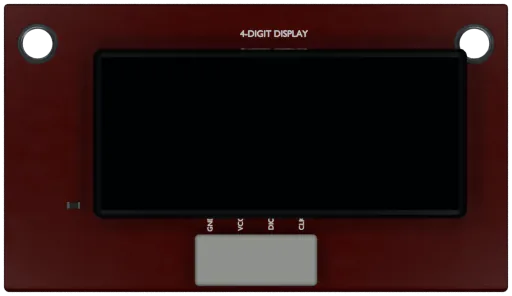
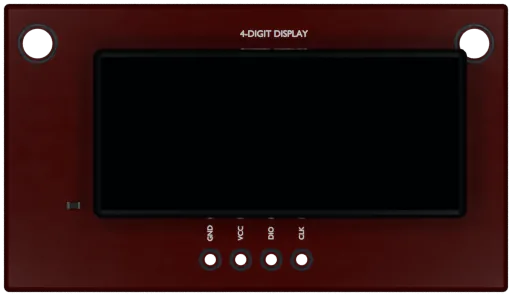
fix(assets): leave the TM1637 connection header unpopulated
The render showed a fitted Grove socket, against the rule that external
connection headers are plated holes by default. The socket is replaced by
four drilled holes (verified see-through), the pin labels move clear of the
display body, and the Build Diagram pads follow the new hole centres.

diff --git a/src/components/BuildDiagram/physicalDiagramLayout.ts b/src/components/BuildDiagram/physicalDiagramLayout.ts
@@ -347,7 +347,7 @@ export const MODULE_PAD_GEOMETRY: Record<string, readonly PadPoint[]> = {
     padRow([80, 114.3, 148.6, 182.9, 217.1, 251.4, 285.7, 320], 400, 346.2, 366),
   'ssd1306-oled-096-128x64-i2c': padRow([145.7, 181.5, 217.5, 253.1], 400, 370.8, 414),
   // A Grove part: four contacts inside a keyed connector rather than pads.
-  'tm1637-4digit-display': padRow([210, 240, 270, 300], 512, 252, 296),
+  'tm1637-4digit-display': padRow([210, 240, 271, 301], 512, 259, 296),
   'max7219-8digit-7segment': padColumn(17.5, 992, [33, 63, 93.5, 124, 153], 188),
   'st7789-tft-240x240':
     padRow([94.5, 125.5, 155.5, 186.5, 216.5, 247.5, 277.5, 308.5], 404, 505, 545),
